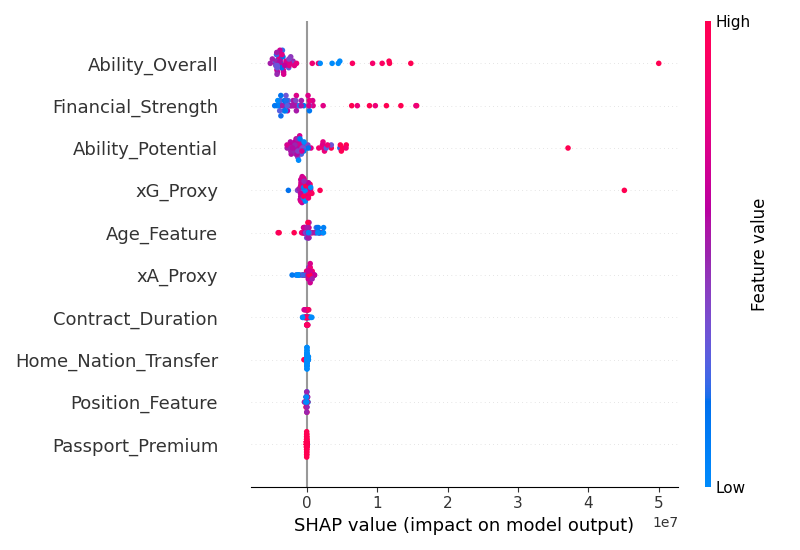
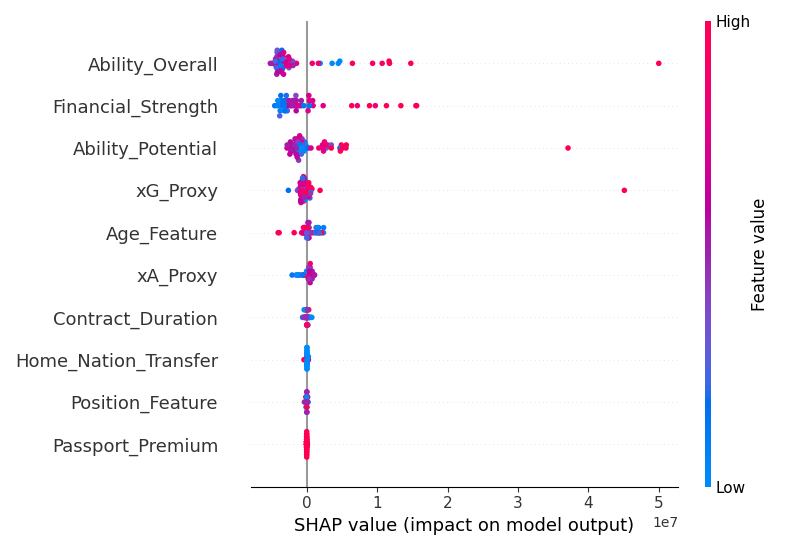
Add visual LIME plots for football archetypes

diff --git a/predict_10_factors.py b/predict_10_factors.py
@@ -190,12 +190,14 @@ def run_model(X, y, features, df_full):
     superstar = df_full[df_full['overall'] > 85].head(1)
     if not superstar.empty:
         idx = superstar.index[0]
-        # Map back to X_test index or just use the row from df_full
         row = df_full.loc[idx][features].values.astype(float)
         exp = explainer_lime.explain_instance(row, model.predict)
         print(f"\n--- Domain LIME: Superstar archetype ({df_full.loc[idx]['Name']}) ---")
-        for feature, weight in exp.as_list():
-            print(f"{feature}: {weight:.4f}")
+        fig = exp.as_pyplot_figure()
+        plt.title(f"LIME: Superstar ({df_full.loc[idx]['Name']})")
+        plt.tight_layout()
+        plt.savefig('lime_superstar.png')
+        plt.close()
 
     # Archetype 2: Young Talent (U21, High Potential)
     young_talent = df_full[(df_full['age'] < 22) & (df_full['potential'] > 80)].head(1)
@@ -204,8 +206,11 @@ def run_model(X, y, features, df_full):
         row = df_full.loc[idx][features].values.astype(float)
         exp = explainer_lime.explain_instance(row, model.predict)
         print(f"\n--- Domain LIME: Young Talent archetype ({df_full.loc[idx]['Name']}) ---")
-        for feature, weight in exp.as_list():
-            print(f"{feature}: {weight:.4f}")
+        fig = exp.as_pyplot_figure()
+        plt.title(f"LIME: Young Talent ({df_full.loc[idx]['Name']})")
+        plt.tight_layout()
+        plt.savefig('lime_young_talent.png')
+        plt.close()
 
     # Archetype 3: Veteran
     veteran = df_full[df_full['age'] > 30].head(1)
@@ -214,8 +219,11 @@ def run_model(X, y, features, df_full):
         row = df_full.loc[idx][features].values.astype(float)
         exp = explainer_lime.explain_instance(row, model.predict)
         print(f"\n--- Domain LIME: Veteran archetype ({df_full.loc[idx]['Name']}) ---")
-        for feature, weight in exp.as_list():
-            print(f"{feature}: {weight:.4f}")
+        fig = exp.as_pyplot_figure()
+        plt.title(f"LIME: Veteran ({df_full.loc[idx]['Name']})")
+        plt.tight_layout()
+        plt.savefig('lime_veteran.png')
+        plt.close()
 
     print("\n--- Feature Definitions ---")
     print("1. Contract_Duration: Years remaining on contract at time of transfer.")